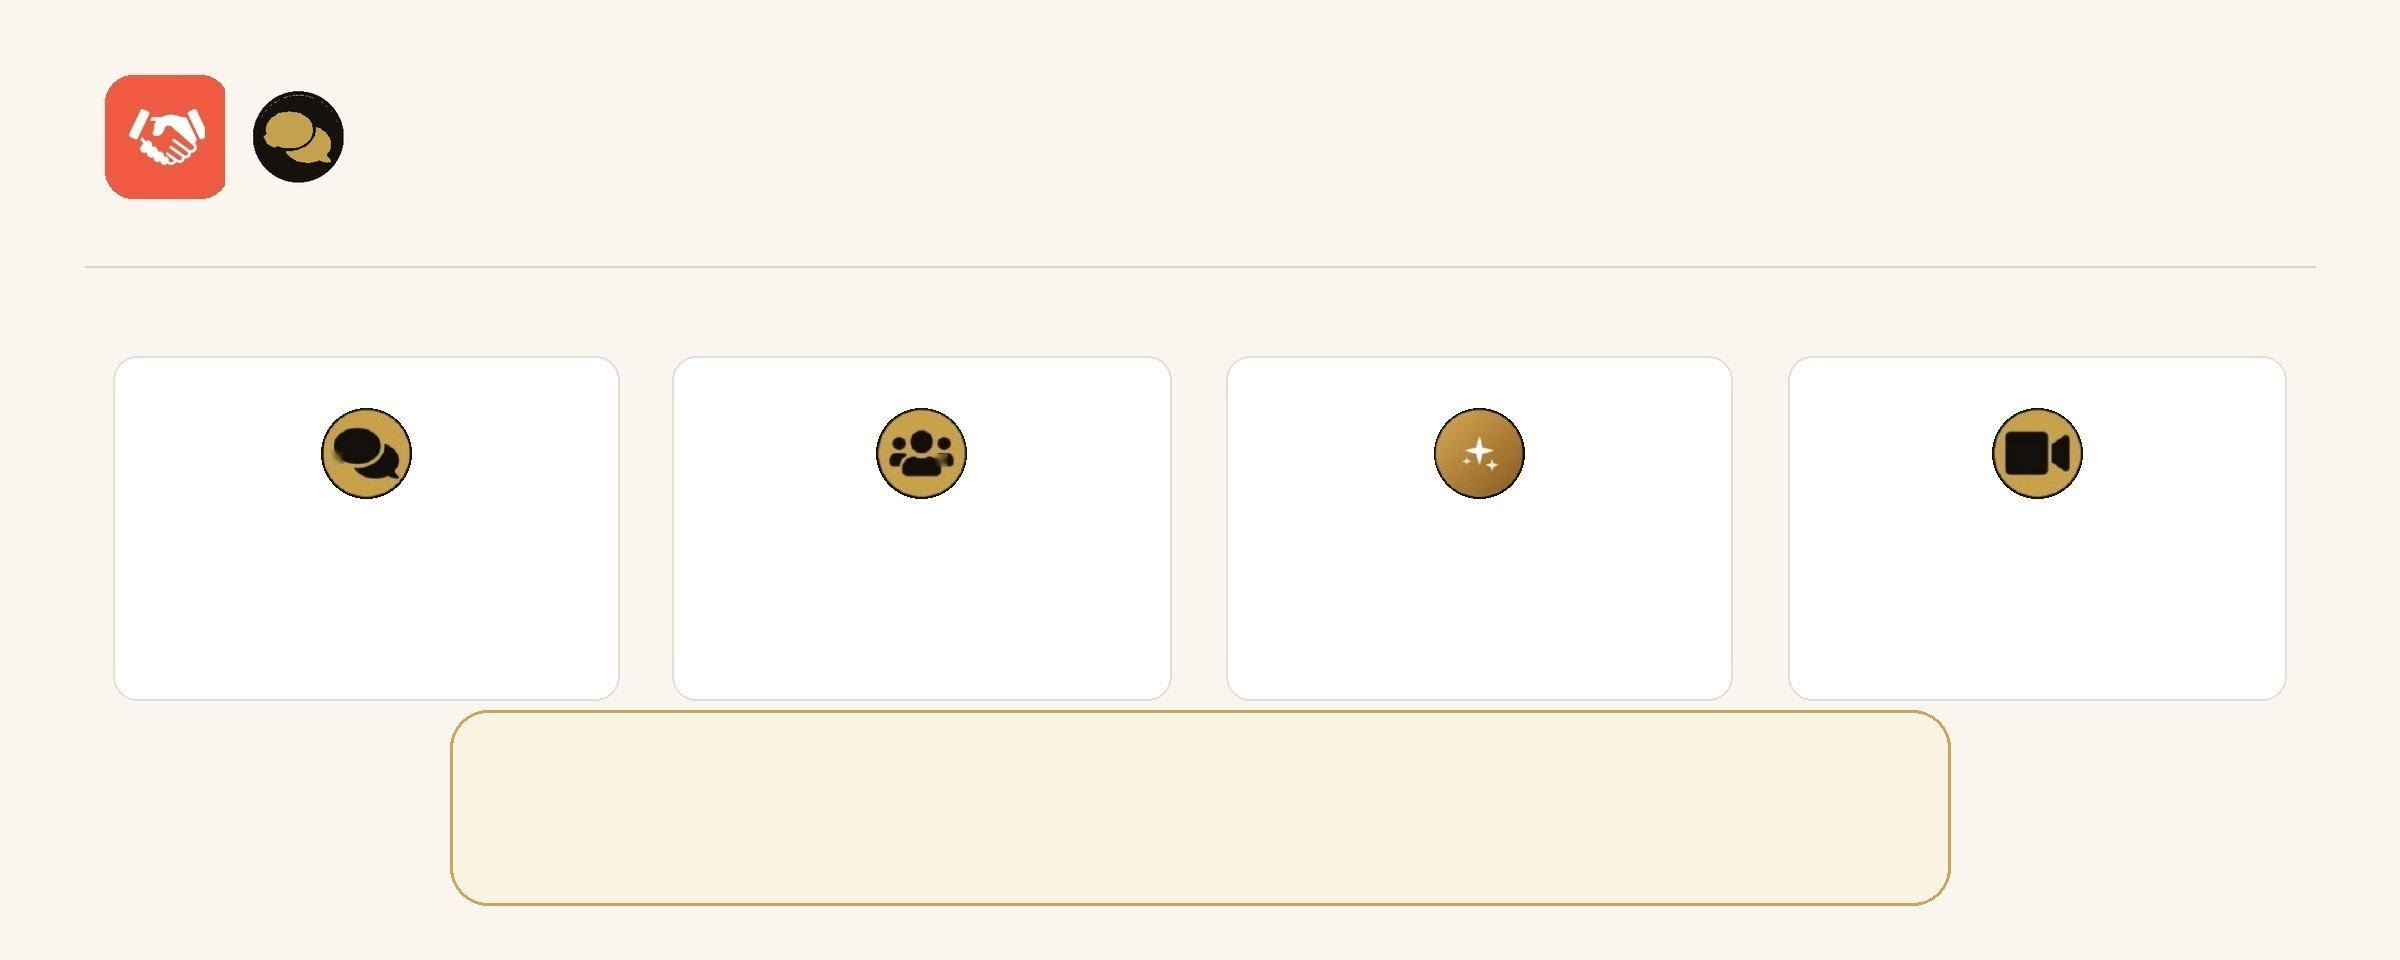
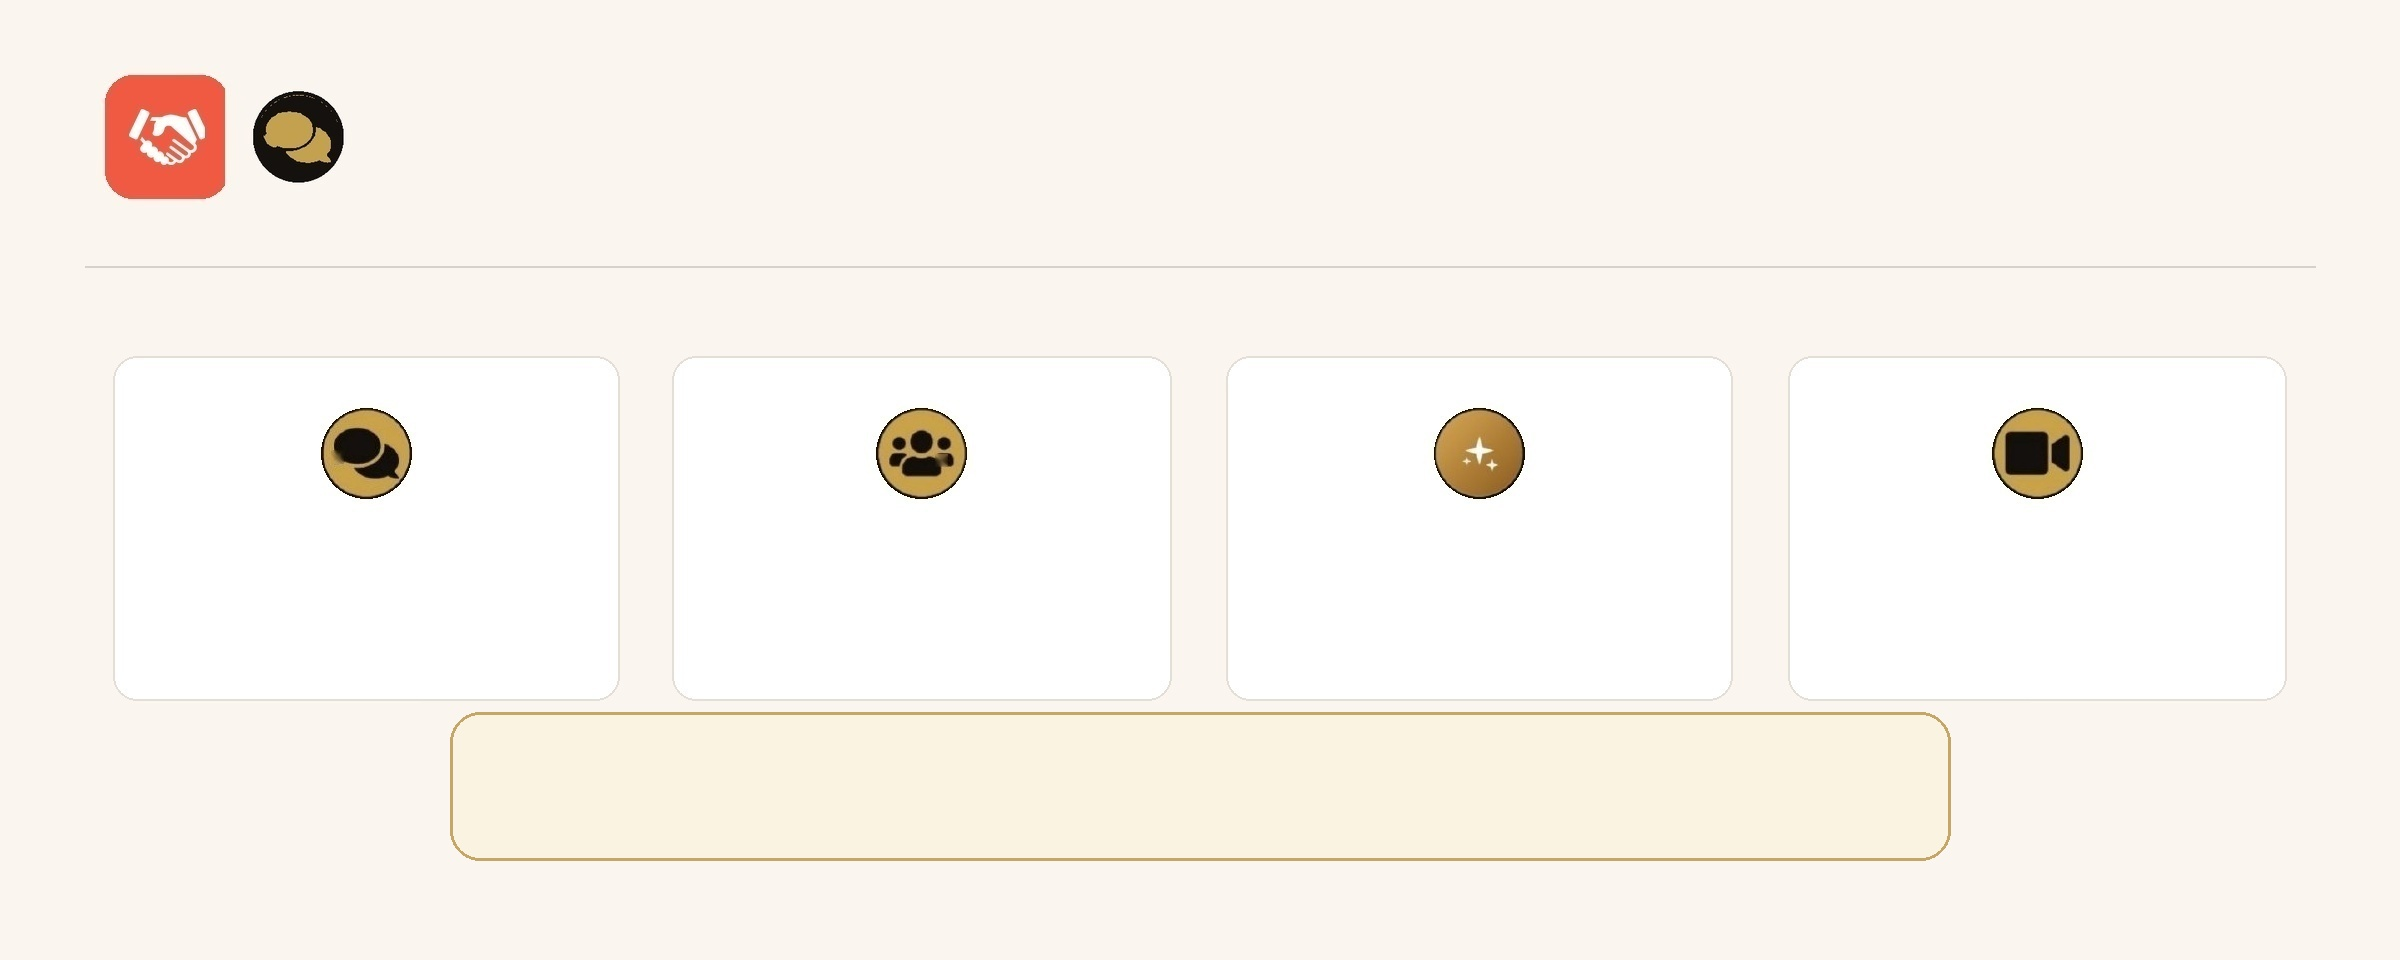
Reduce slide 3 quote box height further
Claude-Session: https://claude.ai/code/session_01CnfRud7UFKfhrBcKWTmy69

diff --git a/docs/index.html b/docs/index.html
@@ -160,7 +160,7 @@
   .ov-s3-title{ position:absolute; top:54%; box-sizing:border-box; padding:0 1.6%; text-align:center; font-family:'Playfair Display',serif; font-weight:700; font-size:1.3cqw; color:#241a10; }
   .ov-s3-desc{ position:absolute; top:60.94%; box-sizing:border-box; padding:0 1.6%; text-align:center; font-family:'Nunito',sans-serif; font-weight:800; font-size:1.05cqw; line-height:1.55; color:#241a10; }
   .ov-s3-quote{
-    position:absolute; left:18.75%; top:74%; width:62.5%; height:20.3%;
+    position:absolute; left:18.75%; top:74.17%; width:62.5%; height:15.42%;
     box-sizing:border-box; padding:0 2%;
     display:flex; align-items:center; justify-content:center; text-align:center;
     font-family:'Playfair Display',serif; font-style:italic; font-weight:900; font-size:1.45cqw; line-height:1.4; color:#8a5a1f;
@@ -213,7 +213,7 @@
     <div class="ov ov-badge on-dark" style="top:90.65%;"><span class="num">2</span><span class="den">/23</span></div>
   </div>
   <div class="slide-wrap">
-    <img class="slide-img" src="assets/slides/slide-03.jpg?v=11" alt="Слайд 3 — формат поддержки">
+    <img class="slide-img" src="assets/slides/slide-03.jpg?v=12" alt="Слайд 3 — формат поддержки">
     <div class="ov ov-s3-heading">Формат поддержки</div>
     <div class="ov ov-s3-subtitle">Как я поддерживаю тебя на протяжении всего курса:</div>
     <div class="ov ov-s3-title" style="left:4.708%;width:21.083%;">Личная обратная связь</div>
